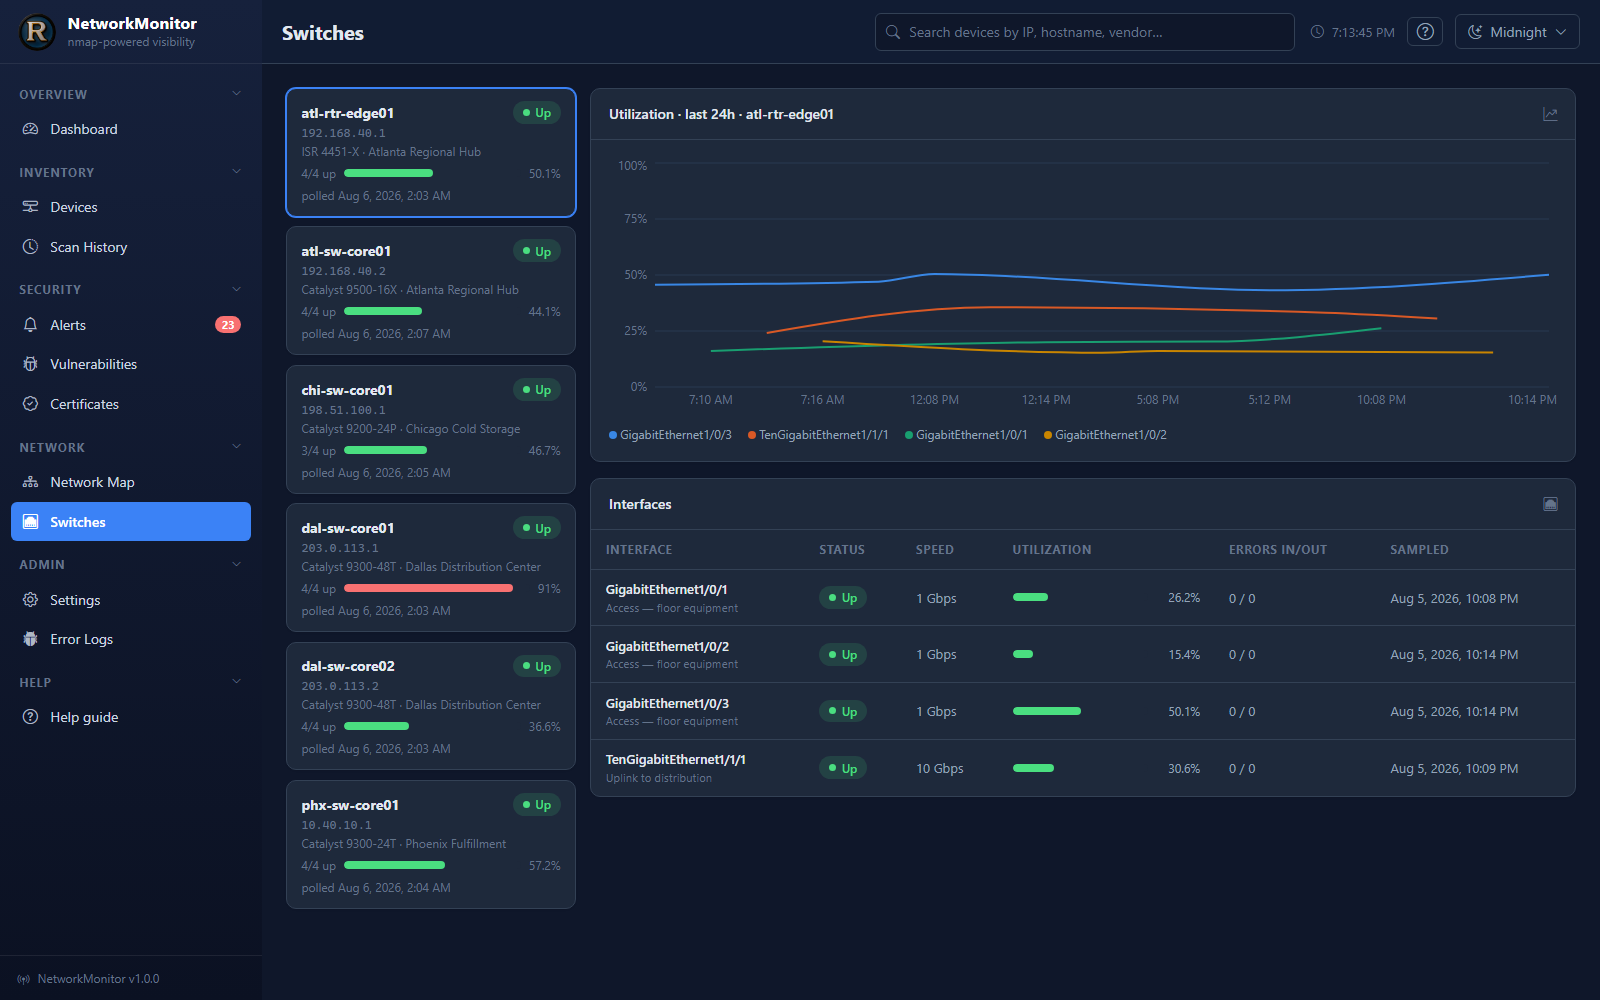
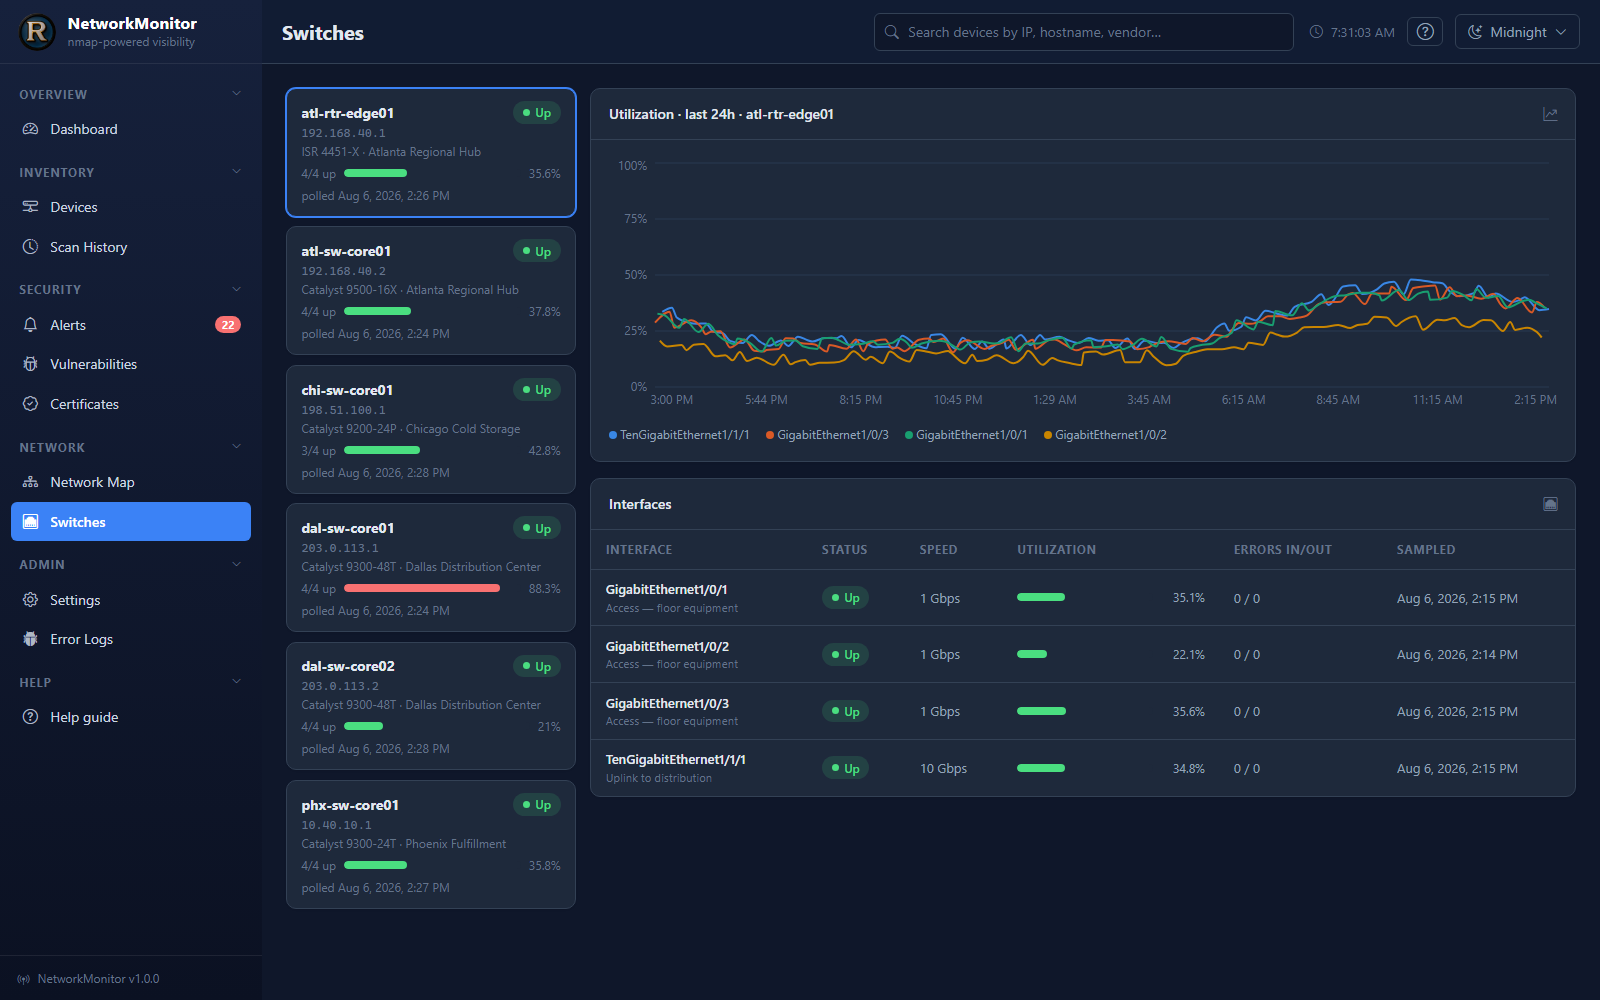
Seed every screen with enough data to demonstrate itself
A data-coverage audit against the running API found two screens that looked
unfinished because the seed was thin, not because the features were.

Device history covered only the first four devices on each network, so 92 of
120 devices had no availability or latency chart at all — a visitor clicking a
device at random was three times more likely to land on an empty one than a
populated one. Every device now carries roughly a week of samples at a 90-minute
cadence: 12,667 points in total, and no empty charts.

SNMP interfaces were polled five times across 24 hours, which drew a chart with
five points on it and read as missing data. Polling is now every 15 minutes for
a full day (96 samples per interface, ~2,300 in total) and follows a working-day
curve rather than wandering at random, so the utilization chart shows an
overnight trough and a morning climb. Interface error counters accumulate across
the day instead of repeating one value at every poll.

The whole demo database is 2.3 MB.

diff --git a/NetworkMonitor.Server/Services/DemoDataSeeder.cs b/NetworkMonitor.Server/Services/DemoDataSeeder.cs
@@ -475,10 +475,16 @@ public class DemoDataSeeder
     }
 
     /// <summary>
-    /// Hourly-ish per-device history for four devices per network over the last
-    /// seven days — enough for the device history chart to show availability and
-    /// latency texture, including short offline blips, without seeding a
-    /// snapshot for all 120 devices on every one of ~580 scans.
+    /// Per-device availability and latency history over the last seven days, for
+    /// every device.
+    ///
+    /// This used to cover only the first four devices on each network, which
+    /// left three quarters of the estate with an empty chart on its detail page
+    /// — and a visitor clicking a device at random was far more likely to land
+    /// on a blank one than a populated one. Sampling roughly every 90 minutes
+    /// for all 120 devices is around 13,000 rows: nothing for the database, and
+    /// the difference between a feature that demonstrates itself and one that
+    /// looks unfinished.
     /// </summary>
     private List<ScanDeviceSnapshot> CreateDeviceSnapshots(
         List<Network> networks, List<Device> devices,
@@ -488,7 +494,7 @@ public class DemoDataSeeder
 
         foreach (var network in networks)
         {
-            var netDevices = devices.Where(d => d.NetworkId == network.Id).Take(4).ToList();
+            var netDevices = devices.Where(d => d.NetworkId == network.Id).ToList();
             var netScans = scans
                 .Where(s => s.NetworkId == network.Id && s.Status == "completed")
                 .OrderBy(s => s.StartedAt)
@@ -553,7 +559,10 @@ public class DemoDataSeeder
                         RecordedAt = t,
                     });
 
-                    t = t.AddMinutes(55 + _rng.Next(0, 21));
+                    // ~90-minute cadence keeps a week of history smooth on the
+                    // chart while holding the whole table to a sane size now
+                    // that every device is covered rather than a handful.
+                    t = t.AddMinutes(85 + _rng.Next(0, 21));
                 }
             }
         }
@@ -808,7 +817,15 @@ public class DemoDataSeeder
     {
         const long OneGbps = 1_000_000_000L;
         const long TenGbps = 10_000_000_000L;
-        const int pollSpacingSeconds = 5 * 3600;
+
+        // Poll every 15 minutes for a full day. Five samples spread across 24
+        // hours technically satisfied "a day of history" but drew a chart with
+        // five points on it, which reads as missing data rather than as a
+        // utilization trend. 96 samples per interface is ~2,300 rows in total —
+        // nothing for the database, and the difference between a sparse
+        // polyline and a chart that looks like real telemetry.
+        const int pollSpacingSeconds = 15 * 60;
+        const int pollCount = 96;
 
         var snapshots = new List<InterfaceSnapshot>();
         foreach (var target in targets)
@@ -831,22 +848,35 @@ public class DemoDataSeeder
                 // plausible uptime-worth of traffic and grow it per poll.
                 var inOctets = (long)(_rng.NextDouble() * 4e11) + 1_000_000_000;
                 var outOctets = (long)(_rng.NextDouble() * 4e11) + 1_000_000_000;
-                var inErrors = down ? 0 : _rng.NextDouble() < 0.2 ? _rng.Next(1, 40) : 0;
+                // Error counters are cumulative on real equipment, so a flaky
+                // interface accrues errors across the day rather than reporting
+                // the same number at every poll.
+                var flaky = !down && _rng.NextDouble() < 0.25;
+                var inErrors = flaky ? (long)_rng.Next(1, 40) : 0L;
 
-                for (var poll = 0; poll < 5; poll++)
+                for (var poll = 0; poll < pollCount; poll++)
                 {
                     var recordedAt = _now.AddHours(-24)
-                        .AddSeconds(poll * pollSpacingSeconds + _rng.Next(0, 600));
+                        .AddSeconds(poll * pollSpacingSeconds + _rng.Next(0, 60));
+
+                    // Traffic follows the working day rather than wandering at
+                    // random: a trough overnight, a climb through the morning, a
+                    // peak mid-afternoon. A flat noisy band would fill the chart
+                    // without telling anyone anything.
+                    var hour = recordedAt.Hour + recordedAt.Minute / 60.0;
+                    var diurnal = 0.45 + 0.55 * Math.Max(0, Math.Sin((hour - 5.0) / 24.0 * 2 * Math.PI));
 
                     var utilization = down ? 0
-                        : Math.Clamp(baseUtil + (_rng.NextDouble() - 0.5) * (saturated ? 6 : 14),
-                                     saturated ? 88 : 2, saturated ? 96 : 95);
+                        : Math.Clamp(
+                            baseUtil * (saturated ? 1.0 : diurnal) + (_rng.NextDouble() - 0.5) * (saturated ? 5 : 7),
+                            saturated ? 88 : 1, saturated ? 97 : 95);
 
                     // Grow counters by roughly what that utilization moves in one
                     // poll interval, so the numbers cross-check if anyone looks.
                     var bytesMoved = (long)(utilization / 100.0 * (speed / 8.0) * pollSpacingSeconds);
                     inOctets += (long)(bytesMoved * 0.6);
                     outOctets += (long)(bytesMoved * 0.4);
+                    if (flaky && _rng.NextDouble() < 0.15) inErrors += _rng.Next(1, 6);
 
                     snapshots.Add(new InterfaceSnapshot
                     {
